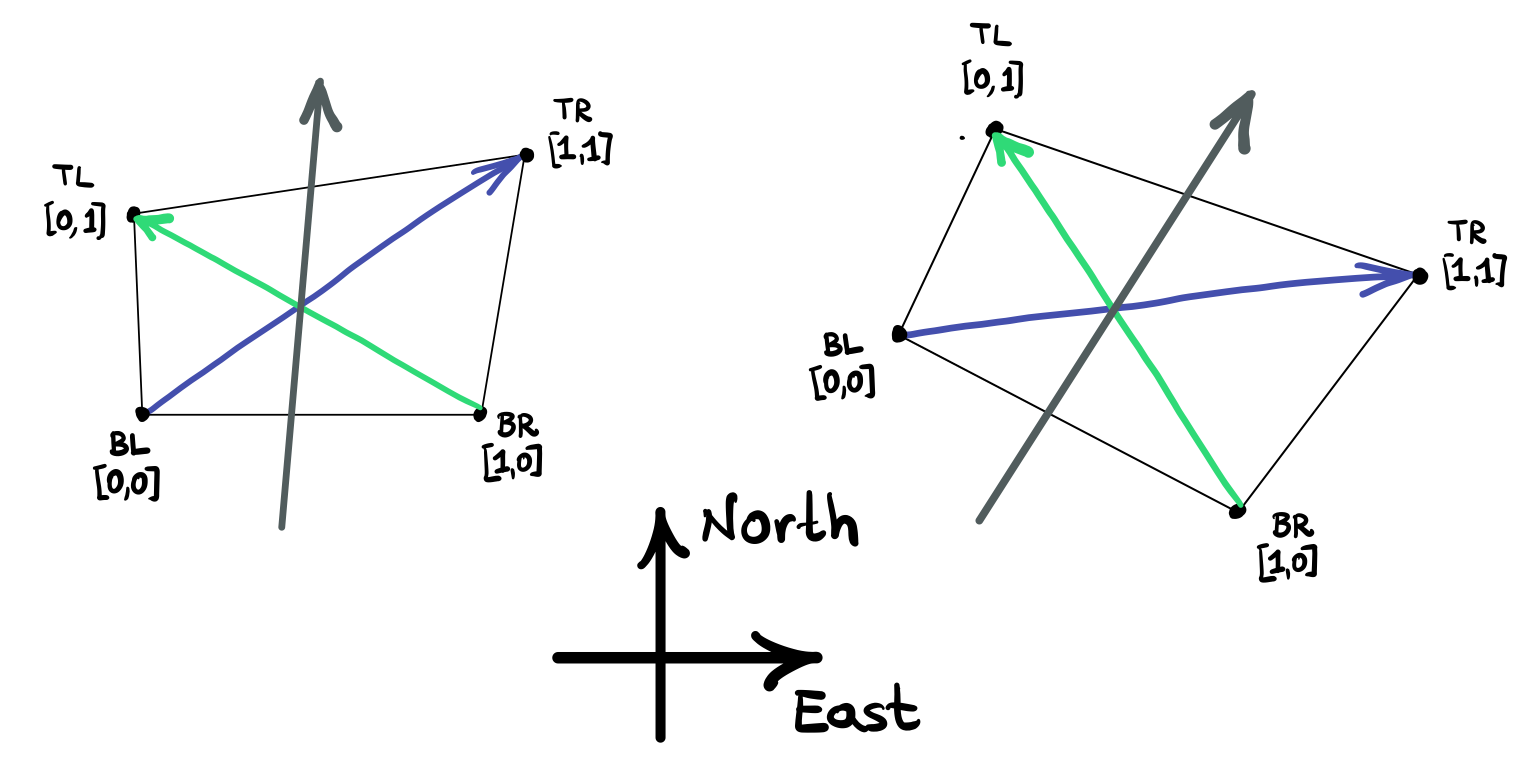
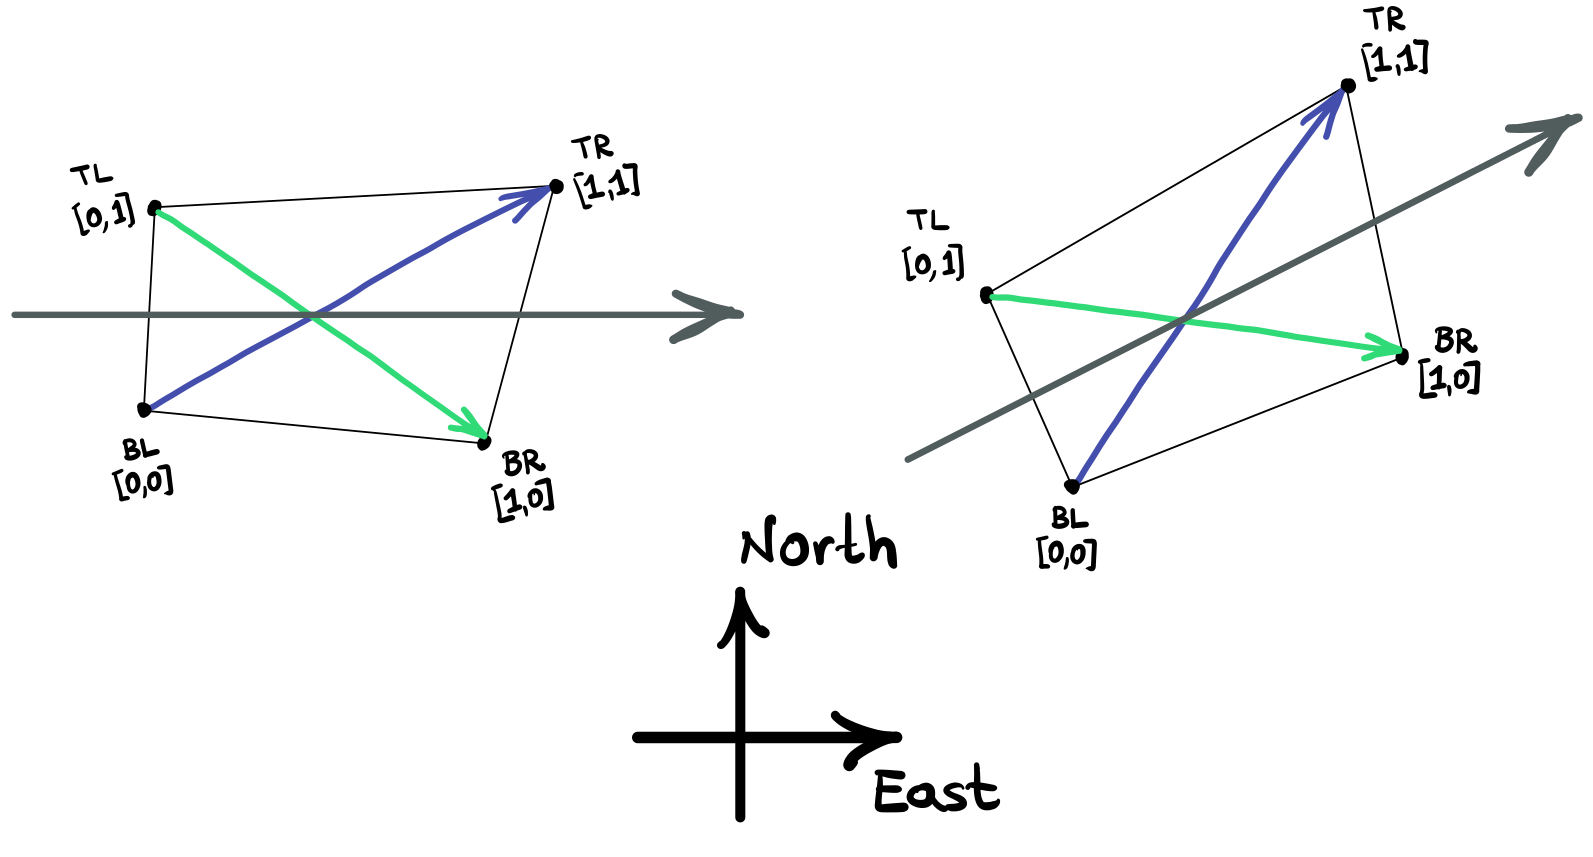
follow exactly mom6 implementation

diff --git a/regional_mom6/rotation.py b/regional_mom6/rotation.py
@@ -133,8 +133,8 @@ def mom6_angle_calculation_method(
     point: xr.DataArray,
 ) -> xr.DataArray:
     """
-    Calculate the angle of the grid point using the MOM6 method adapted from the
-    MOM6 code: https://github.com/mom-ocean/MOM6/blob/05d8cc395c1c3c04dd04885bf8dd6df50a86b862/src/initialization/MOM_shared_initialization.F90#L572-L587
+    Calculate the angle of the grid point's local constant-y direction compared to East-West direction
+    using the MOM6 method adapted from: https://github.com/mom-ocean/MOM6/blob/05d8cc395c1c3c04dd04885bf8dd6df50a86b862/src/initialization/MOM_shared_initialization.F90#L572-L587
 
     This method can handle vectorized computations.
 
@@ -151,7 +151,7 @@ def mom6_angle_calculation_method(
     Returns
     -------
     xr.DataArray
-        The angle that corresponds to the grid point
+        The angle angle of the grid point's local constant-y direction compared to East-West direction.
     """
     rotation_logger.info("Calculating grid rotation angle")
 
@@ -171,20 +171,19 @@ def mom6_angle_calculation_method(
     # Quadrilateral diagonals
 
     # top-left--bottom-right diagonal components
-    TL_BR_diagonal_x = cos_meanlat * (lonB[1, 0] - lonB[0, 1])
-    TL_BR_diagonal_y = top_left.y - bottom_right.y
+    BR_TL_diagonal_x = cos_meanlat * (lonB[0, 1] - lonB[1, 0])
+    BR_TL_diagonal_y = bottom_right.y - top_left.y
 
     # top-right--bottom-left diagonal components
     TR_BL_diagonal_x = cos_meanlat * (lonB[1, 1] - lonB[0, 0])
     TR_BL_diagonal_y = top_right.y - bottom_left.y
 
     # Sum of diagonals components
-    sum_of_diagonals_x = TR_BL_diagonal_x + TL_BR_diagonal_x
-    sum_of_diagonals_y = TR_BL_diagonal_y + TL_BR_diagonal_y
+    sum_of_diagonals_x = TR_BL_diagonal_x + BR_TL_diagonal_x
+    sum_of_diagonals_y = TR_BL_diagonal_y + BR_TL_diagonal_y
 
-    # Angle of sum-of-diagonals vector with the North-South direction
-    # Note: the minus sign changes convention from clockwise to counter-clockwise
-    angle = -np.arctan2(sum_of_diagonals_x, sum_of_diagonals_y)  # = - atan(x/y)
+    # Angle of sum-of-diagonals vector with the East-West direction
+    angle = np.arctan2(sum_of_diagonals_x, sum_of_diagonals_y)  # = atan(x/y)
 
     # Convert to degrees and assign to angles_arr
     angles_arr = np.rad2deg(angle)

diff --git a/docs/angle_calculation.md b/docs/angle_calculation.md
@@ -1,6 +1,6 @@
 # Rotated grids and the angle calculation
 
-For rotated horizontal grids, that is grids whose coordinates do not align with lines of constant latitude and longitude, we have to rotate the boundary conditions appropriately by the angle that the grid is rotated from the latitude-longitude coordinates, i.e., the angle formed by the curved grid's constant ``x`` coordinate compared to the true north.
+For rotated horizontal grids, that is grids whose coordinates do not align with lines of constant latitude and longitude, we have to rotate the boundary conditions appropriately by the angle that the grid is rotated from the latitude-longitude coordinates, i.e., the angle formed by the curved grid's local direction of constant ``y`` coordinate compared to the East-West direction.
 
 **Issue:** Although horizontal grids supplied by users _do_ contain an `angle_dx` field, MOM6 by default ignores `angle_dx`  entirely and re-calculates the angles that correspond to each grid point.
 
@@ -15,11 +15,11 @@ We explain below the implementation of MOM6 angle calculation in regional-mom6, 
 Steps 1 through 4 replicate the angle calculation in the interior ``t``-points, as done by MOM6 (see {meth}`rotation.mom6_angle_calculation_method <regional_mom6.rotation.mom6_angle_calculation_method>`). Step 5 describes how we can apply this algorithm to the boundary ``q``-points.
 
 1. Determine the longitudinal extent of our domain, or periodic range of longitudes. For grids that go around the globe ``len_lon = 360``; for regional domains ``len_lon`` is provided by the ``hgrid``.
-2. Find the four ``q``-points surrounding each ``t``-point in our grid. These four ``q`` points form a quadrilateral; let's denote them as top-left (TL), top-right (TR), bottom-left (BL), bottom-right (BR). We want to determine the average angle of rotation of this quadrilateral compared to the North-South direction. We ensure that the longitudes of the ``q`` points are within the range of ``len_lon`` around the ``t``-point itself via ({meth}`rotation.modulo_around_point <regional_mom6.rotation.modulo_around_point>`).
+2. Find the four ``q``-points surrounding each ``t``-point in our grid. These four ``q`` points form a quadrilateral; let's denote them as top-left (TL), top-right (TR), bottom-left (BL), bottom-right (BR). We want to determine the average angle of rotation of this quadrilateral compared to the East-West direction. We ensure that the longitudes of the ``q`` points are within the range of ``len_lon`` around the ``t``-point itself via ({meth}`rotation.modulo_around_point <regional_mom6.rotation.modulo_around_point>`).
 3. We convert the longitudes and latitudes to distances on the globe. For that, we ensure to scale the horizontal distances with the `cos(latitude)` factor. The latitude we use for the scaling factor is the average of the latitudes of all four ``q`` points.
-4. To determine the average rotation of the quadrilateral we form the vectors of its two diagonals and then the vectorial sum of the diagonals. The angle that vector of the sum of the diagonals forms with the North-South direction is a good approximation for the average angle of the quadrilateral and thus this is the angle we associate with the ``t`` point. The diagram below shows two quadrilaterals: the left one is already oriented along longitude-latitude coordinates and therefore the sum of the diagonals is oriented along North-South direction; the one on the right is rotated by a negative acute angle compared to North-South.
+4. To determine the average rotation of the quadrilateral we form the vectors of its two diagonals (the ones that start from the left points and end on the right ones) and then the vectorial sum of these two diagonals. The angle that vector of the sum of the diagonals forms with the East-West direction is a good approximation for the average angle of the quadrilateral and thus this is the angle we associate with the ``t`` point. The diagram below shows two quadrilaterals: the left one is already oriented along longitude-latitude coordinates and therefore the sum of the diagonals is oriented along East-West direction; the one on the right is rotated counterclockwise by an acute angle compared to East-West direction.
    ![Logo](_static/images/angle_via_diagonals.png)
-   We compute the angle of the sum-of-diagonals vector with the North-South direction via `numpy.arctan2(x, y)`; note that `numpy.arctan2(x, y)` returns `atan(x/y)`. We ensure that we use a counter-clockwise convention for the angle and also convert the angel to degrees.
+   We compute the angle of the sum-of-diagonals vector with the East-West direction via `numpy.arctan2(x, y)`; note that `numpy.arctan2(x, y)` returns `atan(x/y)`. We ensure to convert the angel to degrees.
 5. **Additional step for the grid boundary points**
 
    Since the boundaries for a regional MOM6 domain are `q` points and not on the `t` points, to calculate the angle for those boundary points we extend the grid by a bit; see the {meth}`rotation.create_expanded_hgrid <regional_mom6.rotation.create_expanded_hgrid>` method. Doing so, we can apply the method above since now there exist four `t`-points around each boundary `q` point that form a quadrilateral around the `q` points.
